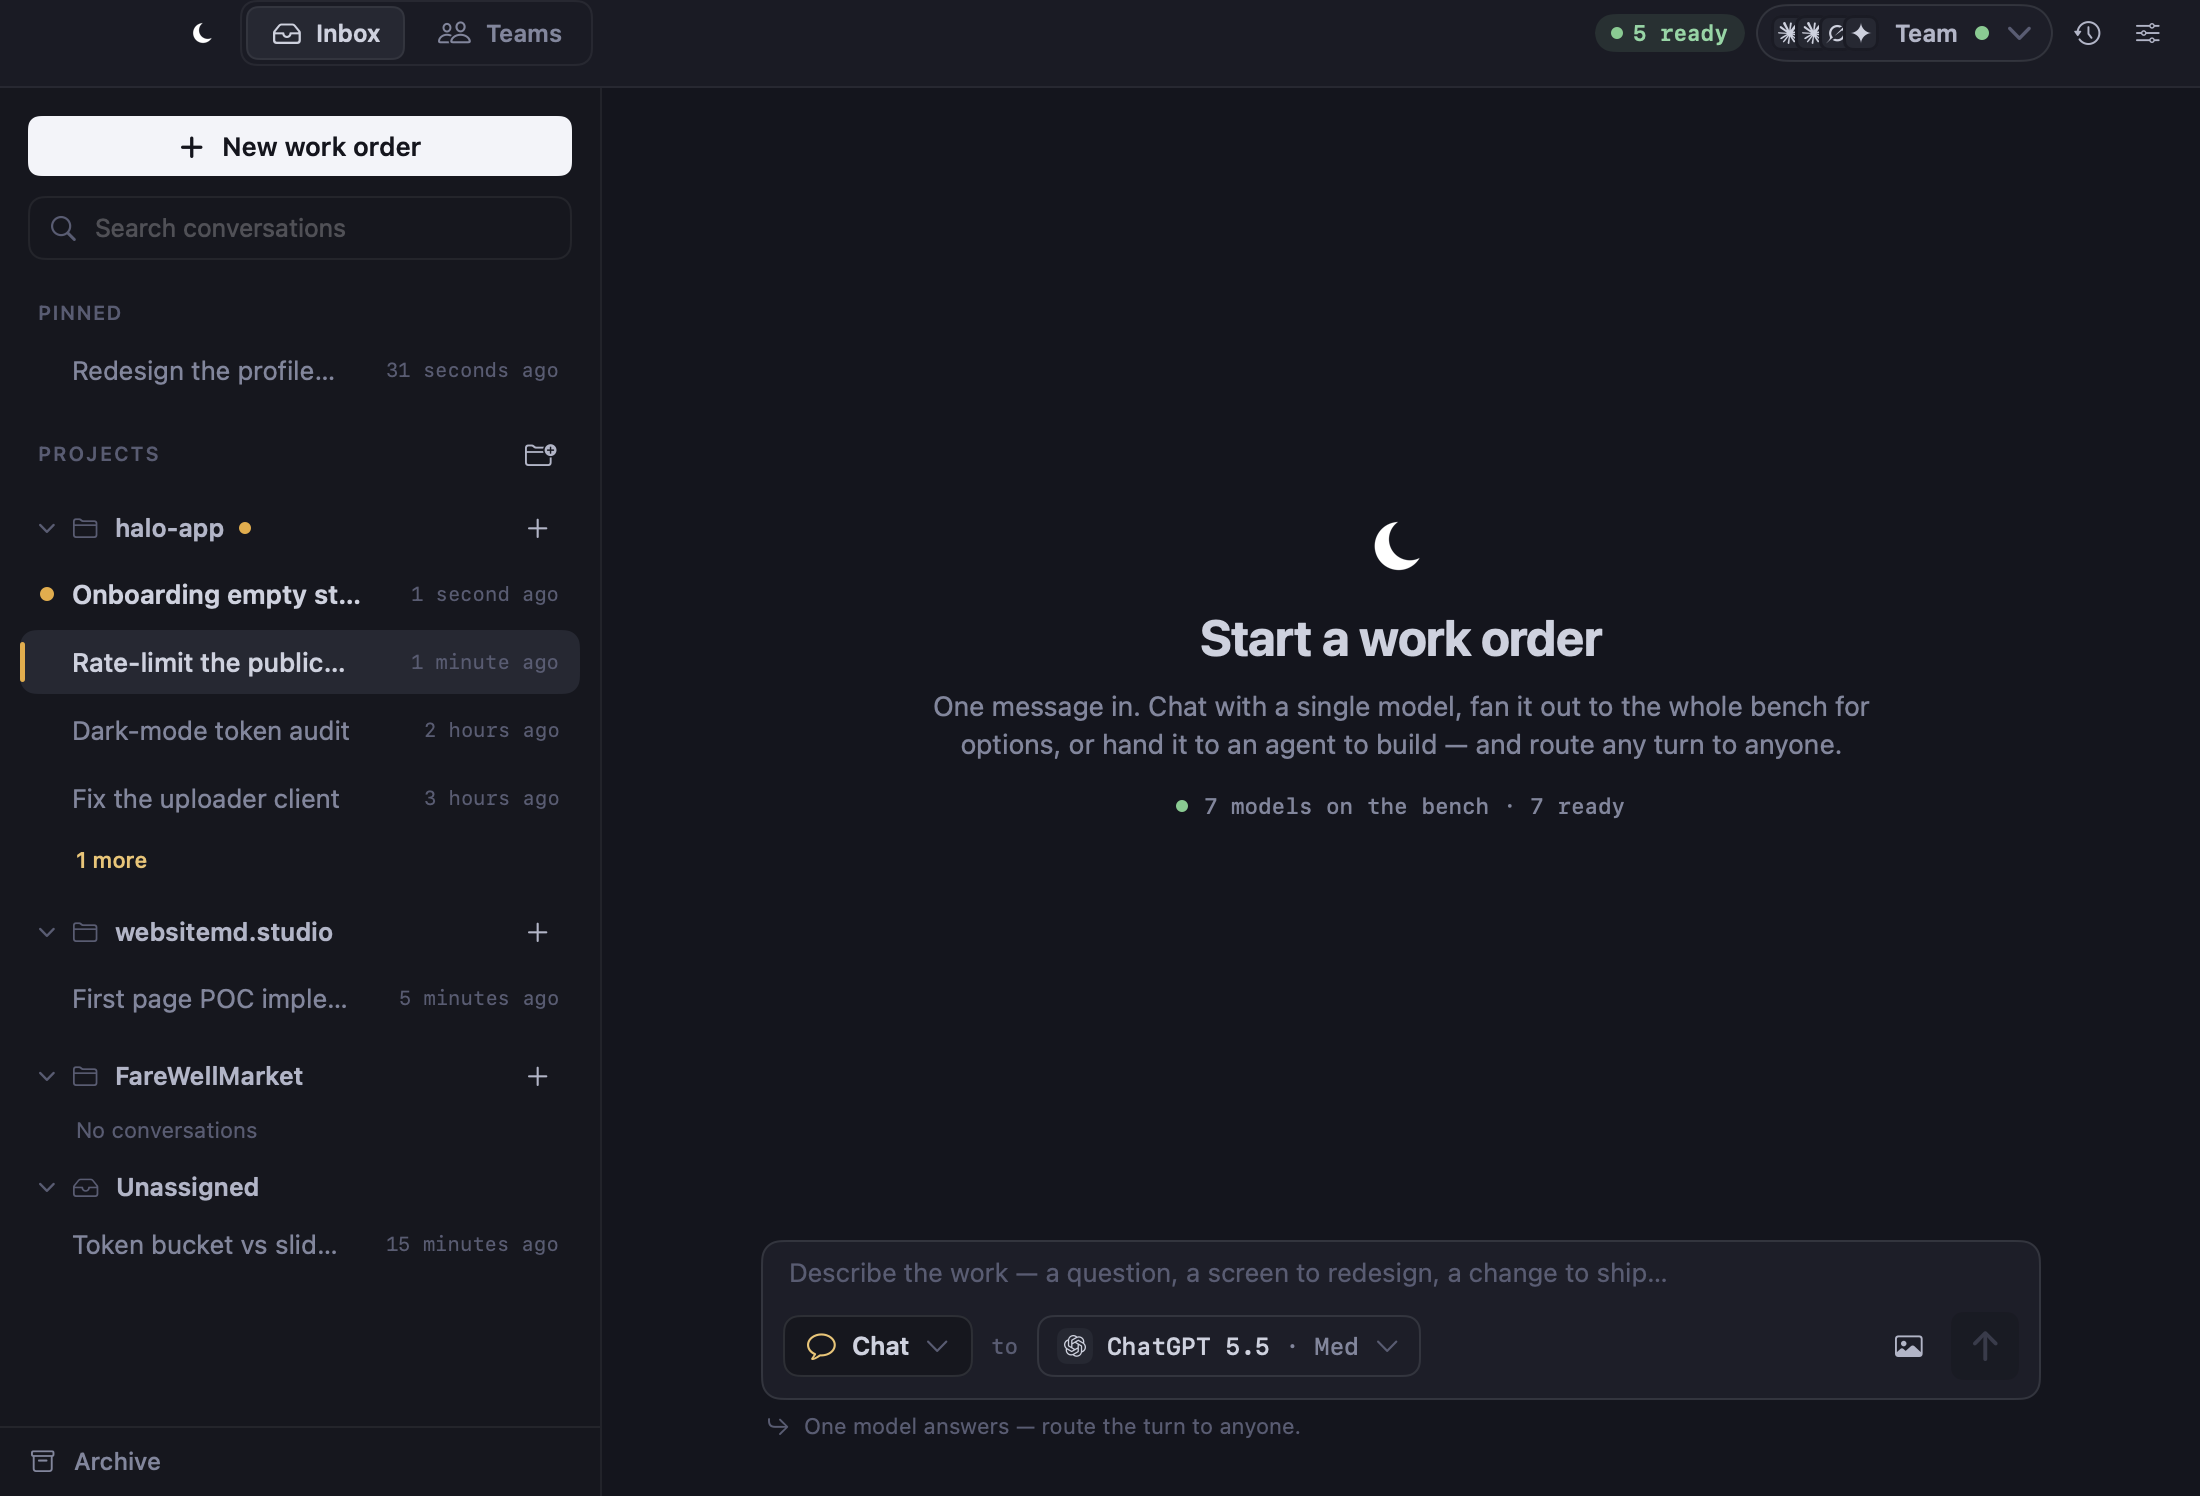
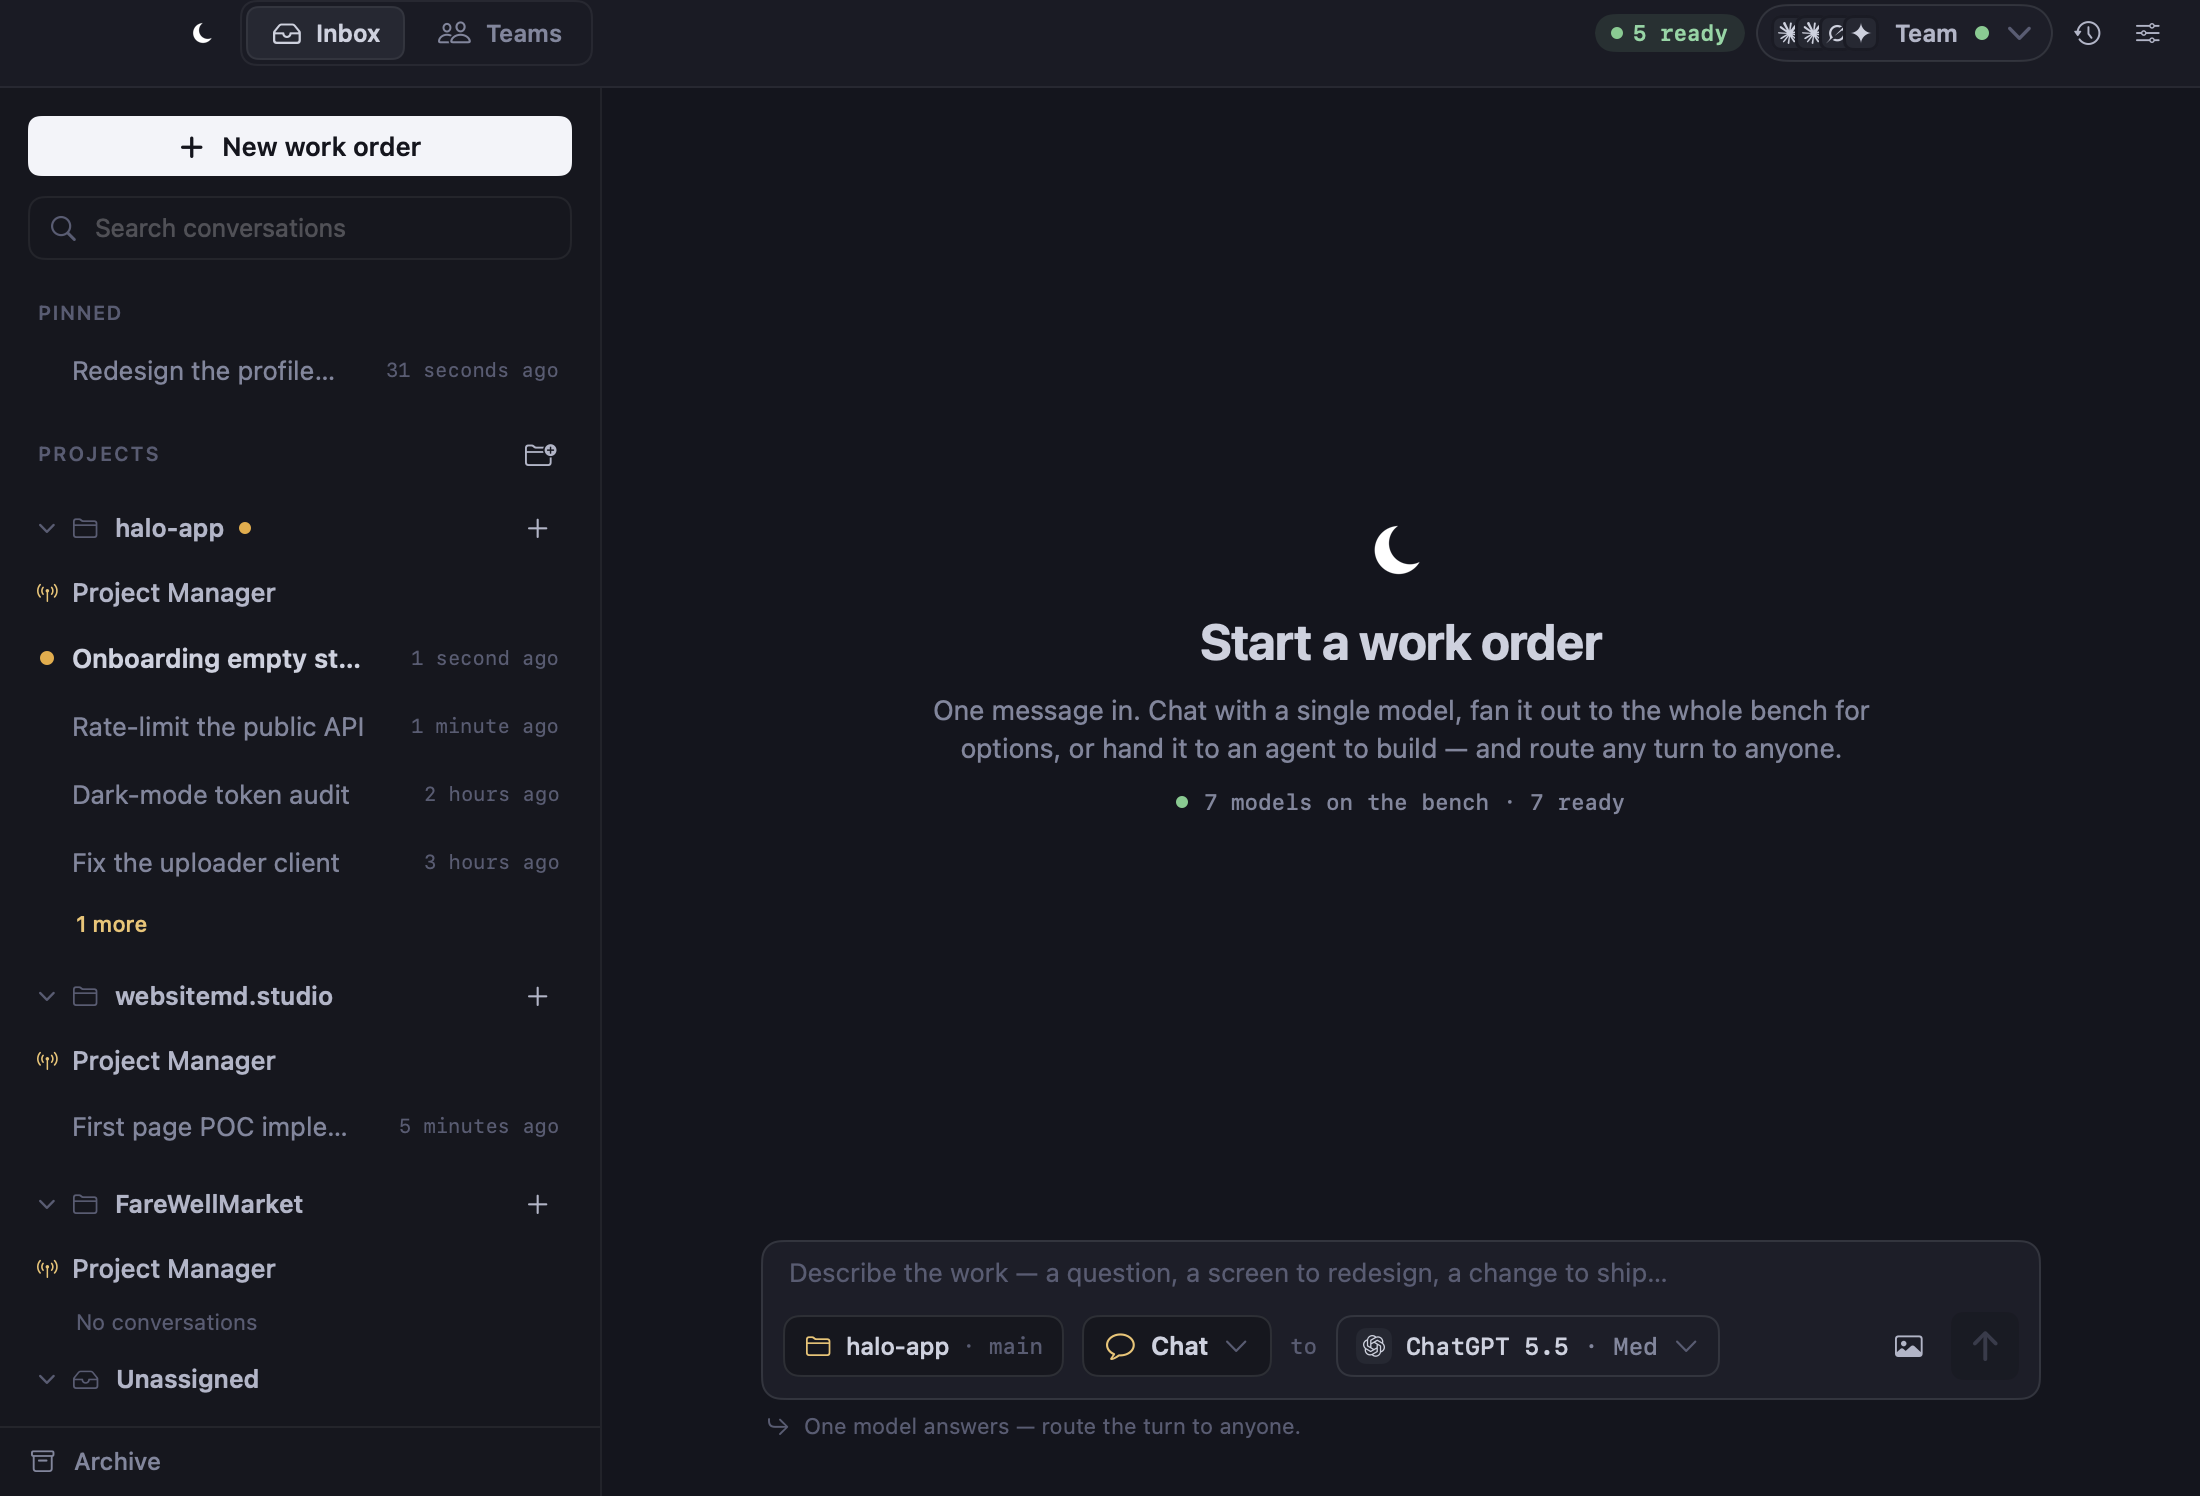
feat(mac): composer active-project indicator (PRJ-S14)
Make the home composer visibly project-scoped: its control bar leads with a project
chip ("📁 <name> · <branch>") showing the active project a send runs against, reading
from ProjectsViewModel. Tap cycles the active project (or opens the add-project picker
when none); add/manage from the sidebar. Mutating routes still gate on a project at
dispatch. Gated behind a `showsProject` flag set only on the home composers, so the
inline thread/launcher/specimen composers are untouched.

- RoutingComposer: @Environment(ProjectsViewModel) + showsProject + projectChip.
- HomeView marketing + new-work-order composers pass showsProject: true.
- projects-rail fixture lands on the home composer (no thread selected) so it proves
  both the project-grouped sidebar (now with per-project "Project Manager" rows) and
  the composer indicator; re-sealed (PASS, no P1). Build green.

diff --git a/Apps/AllnighterMac/Sources/RoutingComposer.swift b/Apps/AllnighterMac/Sources/RoutingComposer.swift
@@ -99,6 +99,7 @@ struct RoutingComposer: View {
 
     @Environment(AppModel.self) private var appModel
     @Environment(ThreadsViewModel.self) private var threads
+    @Environment(ProjectsViewModel.self) private var projects
     @Environment(CommandCenter.self) private var commands
     @State var mode: ComposeMode
     @State var to: String
@@ -118,6 +119,9 @@ struct RoutingComposer: View {
     /// Lock the turn to Send-to-team (hide the Chat/Send/Execute mode pill). Used by
     /// the launcher's team modal, where the team is already chosen.
     private let lockedSendToTeam: Bool
+    /// Show the active-project indicator (the new-work-order/home composer). A send
+    /// here is scoped to the active project root (PRJ-S14).
+    private let showsProject: Bool
     var onSend: ((ComposeRouting) -> Void)?
 
     init(
@@ -129,6 +133,7 @@ struct RoutingComposer: View {
         big: Bool = false,
         defaultMode: ComposeMode = .chat,
         lockedSendToTeam: Bool = false,
+        showsProject: Bool = false,
         onSend: ((ComposeRouting) -> Void)? = nil
     ) {
         _mode = State(initialValue: mode)
@@ -140,6 +145,7 @@ struct RoutingComposer: View {
         self.big = big
         self.defaultMode = defaultMode
         self.lockedSendToTeam = lockedSendToTeam
+        self.showsProject = showsProject
         self.onSend = onSend
         self.placeholder = big
             ? "Describe the work — a question, a screen to redesign, a change to ship…"
@@ -224,6 +230,7 @@ struct RoutingComposer: View {
 
     private var bar: some View {
         HStack(spacing: 9) {
+            if showsProject { projectChip }
             if !lockedSendToTeam { modePill }
             if mode != .sendToTeam {
                 Text("to").font(ALFont.monoSm).foregroundStyle(ALColor.textFaint)
@@ -234,6 +241,36 @@ struct RoutingComposer: View {
             sendButton
         }
         .padding(.horizontal, 11).padding(.vertical, 10)
+    }
+
+    /// The active project a send runs against (PRJ-S14). Tap cycles to the next
+    /// project (switch active scope); add/manage projects from the sidebar. Mutating
+    /// routes (Execute) require a project — surfaced here, enforced by the dispatch gate.
+    private var projectChip: some View {
+        let active = projects.activeProject
+        return Button { cycleProject() } label: {
+            HStack(spacing: 6) {
+                Image(systemName: "folder").font(.system(size: 11))
+                    .foregroundStyle(active != nil ? ALColor.accentText : ALColor.textFaint)
+                Text(active?.displayName ?? "No project")
+                    .font(.system(size: 12, weight: .medium))
+                    .foregroundStyle(active != nil ? ALColor.textPrimary : ALColor.textFaint).lineLimit(1)
+                if let branch = active?.gitBranch, !branch.isEmpty {
+                    Text("· \(branch)").font(ALFont.monoSm).foregroundStyle(ALColor.textFaint)
+                }
+            }
+            .padding(.horizontal, 10).frame(height: 31)
+            .background(ALColor.subtle, in: RoundedRectangle(cornerRadius: ALRadius.md))
+            .overlay { RoundedRectangle(cornerRadius: ALRadius.md).strokeBorder(ALColor.borderDefault, lineWidth: 1) }
+        }
+        .buttonStyle(.plain).fixedSize()
+    }
+
+    private func cycleProject() {
+        let all = projects.projects
+        guard !all.isEmpty else { projects.addProjectViaPicker(); return }
+        let idx = all.firstIndex { $0.id == projects.activeProjectId } ?? -1
+        projects.select(all[(idx + 1) % all.count].id)
     }
 
     private var modePill: some View {

diff --git a/Apps/AllnighterMac/Sources/HomeView.swift b/Apps/AllnighterMac/Sources/HomeView.swift
@@ -526,6 +526,7 @@ private struct HomeMarketingEmptyState: View {
                 modeCards
                 RoutingComposer(
                     big: true,
+                    showsProject: true,
                     onSend: { threads.sendRouting($0, createThread: true) }
                 )
                 .padding(.top, 4)
@@ -622,6 +623,7 @@ private struct HomeNewWorkOrderPane: View {
             Spacer(minLength: 0)
             RoutingComposer(
                 big: true,
+                showsProject: true,
                 onSend: { threads.sendRouting($0, createThread: true) }
             )
             .frame(maxWidth: 640)

diff --git a/Apps/AllnighterMac/Sources/ThreadsViewModel.swift b/Apps/AllnighterMac/Sources/ThreadsViewModel.swift
@@ -644,7 +644,7 @@ final class ThreadsViewModel {
         case "projects-rail":
             seedFixtureProjectsRail()
             reload()
-            selectedThreadId = "pr-halo-2"
+            selectedThreadId = nil   // land on the home composer (shows the project chip)
         default:
             break
         }

diff --git a/docs/qa/gui/home/2026-06-19-projects-rail/watcher.md b/docs/qa/gui/home/2026-06-19-projects-rail/watcher.md
@@ -5,31 +5,28 @@ Command: bash scripts/gui_proof.sh projects-rail
 
 ## VERDICT: PASS
 
-PRJ-S14: the left sidebar rebuilt around projects (docs/phases/wiring/sidebar-with-projects).
-Renders on REAL bound data — the seeded threads carry real `projectId`s and group
-under their projects (verified: pinned=1, halo-app=5, websitemd.studio=1,
+PRJ-S14 sidebar + the S15 reachability/composer additions, on REAL bound data
+(seeded threads carry real `projectId`s — pinned=1, halo-app=5, websitemd.studio=1,
 FareWellMarket=0, Unassigned=1).
 
-Required elements all present and intact: New work order + search; a PINNED section
-(cross-project) with a single-line row; a PROJECTS header with a new-project
-(folder-plus) action; one collapsible group per project (chevron · folder · name ·
-aggregate amber unread dot · `+`); single-line ~32px thread rows (unread dot · title ·
-time); the selected row's 2.5px amber left rail + active background; an unread row's
-amber dot + brighter title; a "1 more" affordance past 4 rows; "No conversations" for
-an empty project; an Unassigned (tray) group; and the Archive entry pinned at the
-bottom. The All/Design/Code/Running filter chips and status-pill theater are gone, as
-the spec requires.
+Sidebar: New work order + search; PINNED section (cross-project single-line row);
+PROJECTS header + new-project action; one collapsible group per project (chevron ·
+folder · name · aggregate amber unread dot · `+`); a "Project Manager" row at the top
+of each project group (opens the live Manager conversation); single-line ~32px thread
+rows (unread dot · title · time); an unread row's amber dot + brighter title; a
+"1 more" affordance past 4 rows; "No conversations" for an empty project; an
+Unassigned (tray) group; Archive at the bottom. Filter chips + status-pill theater
+gone, per spec.
+
+Composer: the home composer's control bar leads with the active-project indicator
+("📁 halo-app · main") — the project a send runs against (PRJ-S14) — then the mode
+pill / target / send. The chip fits the bar with no crowding or clipping.
 
 P1 — broken (blocks): none
 
-P2 — advisory (minor polish, not blocking):
-- PINNED label sits a touch tight under the search field; vertical rhythm slightly
-  inconsistent with the PROJECTS gap.
-- PROJECTS header label baseline drifts a hair below the row icons.
-- "1 more" reads lighter than the rows — it is the amber accent (interactive) color,
-  but could be bumped for affordance clarity.
-- Archive bottom entry has minimal clearance from the window edge.
+P2 — advisory (minor polish):
+- "Project Manager" row antenna icon is small/faint at this scale.
+- "1 more" + PROJECTS header spacing slightly tight; Archive close to window edge.
 
-Note: an earlier capture caught stray search text + empty groups — traced to leftover
-background app instances bleeding events into the capture, not a layout bug. Killing
-them produced this clean, deterministic render.
+(This capture lands on the home composer, so the selected-row active rail is not
+shown here; it was validated in the prior projects-rail seal.)
